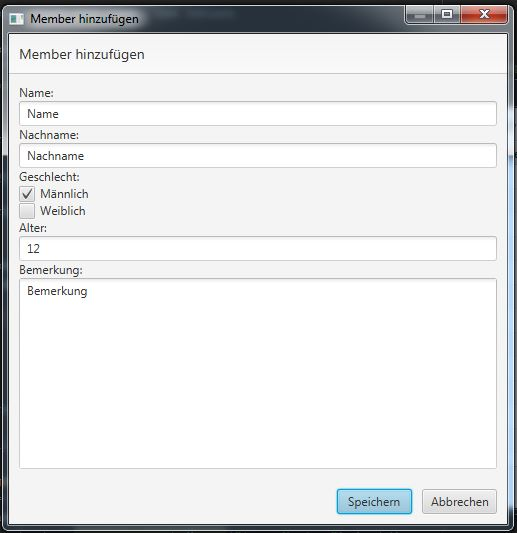
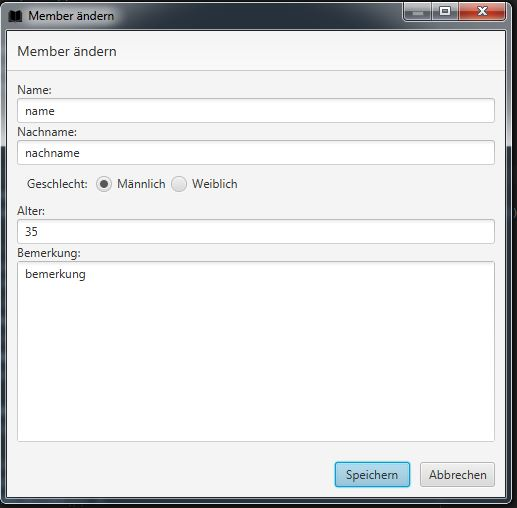
refacotoring editpane to editdialog
add icon to editdialog

Changed region(s): [[0.0, 0.0, 1.0, 1.0]]

diff --git a/src/main/java/eu/papenhagen/klassenliste/EditDialog.java b/src/main/java/eu/papenhagen/klassenliste/EditDialog.java
@@ -10,7 +10,6 @@ import java.util.Optional;
 import javafx.geometry.Insets;
 import javafx.scene.control.Button;
 import javafx.scene.control.ButtonType;
-import javafx.scene.control.CheckBox;
 import javafx.scene.control.Dialog;
 import javafx.scene.control.DialogPane;
 import javafx.scene.control.Label;
@@ -18,19 +17,21 @@ import javafx.scene.control.RadioButton;
 import javafx.scene.control.TextArea;
 import javafx.scene.control.TextField;
 import javafx.scene.control.ToggleGroup;
+import javafx.scene.image.Image;
 import javafx.scene.layout.HBox;
 import javafx.scene.layout.VBox;
+import javafx.stage.Stage;
 
 /**
  * Edit Pane this get use in Edit and Create New Member
  *
  * @author jay
  */
-public class EditPane extends Dialog {
+public class EditDialog extends Dialog {
 
     private MemberSerivce ms = new MemberSerivce();
 
-    public void EditPane(Member m) {
+    public void EditDialog(Member m) {
 
         boolean isNewMember = false;
         //id 
@@ -98,6 +99,7 @@ public class EditPane extends Dialog {
         }
 
         dialog.setResizable(true);
+        
 
         DialogPane dialogPane = dialog.getDialogPane();
         dialogPane.setContent(vb);
@@ -105,6 +107,10 @@ public class EditPane extends Dialog {
 
         Button okButton = (Button) dialogPane.lookupButton(ButtonType.OK);
         okButton.setText("Speichern");
+        
+        //set icon
+        Stage stage = (Stage) dialog.getDialogPane().getScene().getWindow();
+        stage.getIcons().add(new Image(getClass().getResourceAsStream("/images/icon.png")));
 
         Optional result = dialog.showAndWait();
         //on OK save the member

diff --git a/src/main/java/eu/papenhagen/klassenliste/FXMLController.java b/src/main/java/eu/papenhagen/klassenliste/FXMLController.java
@@ -47,8 +47,8 @@ public class FXMLController implements Initializable {
         //create new Member
         Member m = new Member(999999, "Name", "Nachname", true, 12, "Bemerkung");
 
-        EditPane ep = new EditPane();
-        ep.EditPane(m);
+        EditDialog ep = new EditDialog();
+        ep.EditDialog(m);
 
         //refrech table after edit
         table.refresh();
@@ -136,8 +136,8 @@ public class FXMLController implements Initializable {
         //get the selected member
         Member m = (Member) table.getSelectionModel().getSelectedItem();
 
-        EditPane ep = new EditPane();
-        ep.EditPane(m);
+        EditDialog ep = new EditDialog();
+        ep.EditDialog(m);
 
         //refrech table after edit
         table.refresh();

diff --git a/src/test/java/eu/papenhagen/klassenliste/tryout/EditPaneTryout.java b/src/test/java/eu/papenhagen/klassenliste/tryout/EditPaneTryout.java
@@ -5,7 +5,7 @@
  */
 package eu.papenhagen.klassenliste.tryout;
 
-import eu.papenhagen.klassenliste.EditPane;
+import eu.papenhagen.klassenliste.EditDialog;
 import eu.papenhagen.klassenliste.entity.Member;
 import javafx.application.Platform;
 import javafx.embed.swing.JFXPanel;
@@ -27,8 +27,8 @@ public class EditPaneTryout {
         Platform.runLater(() -> {
             Member m = new Member(9999, "name", "nachname", true, 35, "bemerkung");
 
-            EditPane ep = new EditPane();
-            ep.EditPane(m);
+            EditDialog ep = new EditDialog();
+            ep.EditDialog(m);
 
             complete = true;
         });
